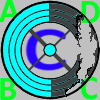
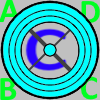
Improve test for mapnav
The map nav dot can now be set by radius and radians.
The test now lets you preview where radius and radians setting place the dot.
Renamed some files and changed up constants.

Changed region(s): [[0.48, 0.03, 1.0, 0.99]]

diff --git a/MapNav.py b/MapNav.py
@@ -6,10 +6,9 @@ import time
 
 from untitled_const import(
 IMAGE_DIR,
-DEFALT_BACK_IMG,
-DEFAULT_LIT_IMG,
-DEFAULT_DOT_IMG,
-UNKNOWN_IMG,
+NAV_LIT_CORE,
+NAV_BACK_INTACT,
+NAV_DOT,
 DEFAULT_MAP_SIZE,
 DEFAULT_DOT_SIZE,
 TAU,
@@ -19,9 +18,9 @@ class Mapnav(TK.Frame):
     def __init__(self, master, **kw):
         super().__init__(master = master, **kw)
         self._dotstate = None
-        self._dotimage =  DEFAULT_DOT_IMG       
-        self._backimage =  DEFALT_BACK_IMG       
-        self._litimage =  DEFAULT_LIT_IMG       
+        self._dotimage =  NAV_DOT       
+        self._backimage =  NAV_BACK_INTACT       
+        self._litimage =  NAV_LIT_CORE       
 
         self.image = None   #Image.new("RGBA", _MAP_SIZE, "white")
         self.tkImage = None #ImageTk.PhotoImage(image=self.image)
@@ -39,8 +38,8 @@ class Mapnav(TK.Frame):
         back = Image.open(self._backimage).convert("RGBA").resize(DEFAULT_MAP_SIZE)
         self.image.paste(back, (0,0), back)
 
-        if (self._backimage):
-            high = Image.open(self._backimage).convert("RGBA").resize(DEFAULT_MAP_SIZE)    
+        if (self._litimage):
+            high = Image.open(self._litimage).convert("RGBA").resize(DEFAULT_MAP_SIZE)    
             self.image.paste(high, (0,0), high)
         if (self._dotstate):
             assert(type(self._dotstate) is tuple and len(self._dotstate) == 2)
@@ -51,9 +50,10 @@ class Mapnav(TK.Frame):
 
         self.tkImage = ImageTk.PhotoImage(image=self.image)
         self.mapImage.config(image = self.tkImage)
-    def PlaceDot(radian, radius):
+    def PlaceDot(self, radian, radius):
         x  = math.floor(math.cos(rot) * rad)
         y  = math.floor(math.sin(rot) * rad)
+        self.DotState=(x,y)
     #region setters and getters
     @property
     def DotState(self):
@@ -103,7 +103,7 @@ if __name__ == "__main__":
     maxRad = 100
     radSpeed = 0.5 * 100
 
-    rotspeed = 0.1 * TAU
+    rotspeed = 0.6 * TAU
 
     rad = 0
     rot = 0
@@ -137,10 +137,9 @@ if __name__ == "__main__":
             try:
                 rot = float(rotVar.get())
             except ValueError:
-                rot = 0        
-        x  = math.floor(math.cos(rot) * rad)
-        y  = math.floor(math.sin(rot) * rad)
-        mapnav.DotState = (x, y)
-        info.config(text = f"X {x}, Y {y}")
+                rot = 0
+                
+        mapnav.PlaceDot(rot, rad)
+        info.config(text = f"X, Y {mapnav.DotState}")
         root.update()
         root.update_idletasks()

diff --git a/untitled_const.py b/untitled_const.py
@@ -24,14 +24,26 @@ DATATERM_NAME = "_NAME"
 DATATERM_DESCRIPTION = "_DESC"
 DATATERM_ICON = "_ICON"
 
-DEFALT_BACK_IMG = os.path.join(IMAGE_DIR, "mapB.png")
-DEFAULT_LIT_IMG  = os.path.join(IMAGE_DIR, "InnerB.png")
-DEFAULT_DOT_IMG = os.path.join(IMAGE_DIR, "dot.png")
-UNKNOWN_IMG = os.path.join(IMAGE_DIR, "mapc.png")
 DEFAULT_MAP_SIZE = (200, 200)
-DEFAULT_DOT_SIZE = (20, 20)
+DEFAULT_DOT_SIZE = (10, 10)
 
 TAU = math.pi * 2
+
+NAV_LIT_CORE     = os.path.join(IMAGE_DIR, "Core.png")
+NAV_LIT_INNER_A  = os.path.join(IMAGE_DIR, "InnerA.png")
+NAV_LIT_INNER_B  = os.path.join(IMAGE_DIR, "InnerB.png")
+NAV_LIT_MIDDLE_A = os.path.join(IMAGE_DIR, "MiddleA.png")
+NAV_LIT_MIDDLE_B = os.path.join(IMAGE_DIR, "MiddleB.png")
+NAV_LIT_OUTER_A  = os.path.join(IMAGE_DIR, "OuterA.png")
+NAV_LIT_OUTER_B  = os.path.join(IMAGE_DIR, "OuterB.png")
+
+NAV_BACK_UNKNOWN = os.path.join(IMAGE_DIR, "mapA.png") 
+NAV_BACK_INTACT  = os.path.join(IMAGE_DIR, "mapB.png") 
+NAV_BACK_BROKEN  = os.path.join(IMAGE_DIR, "mapC.png")
+
+NAV_DOT          = os.path.join(IMAGE_DIR, "dot.png")
+
+
 
 class ReturnToMain(Exception):
     def __init__(self, *args, **kwargs):
